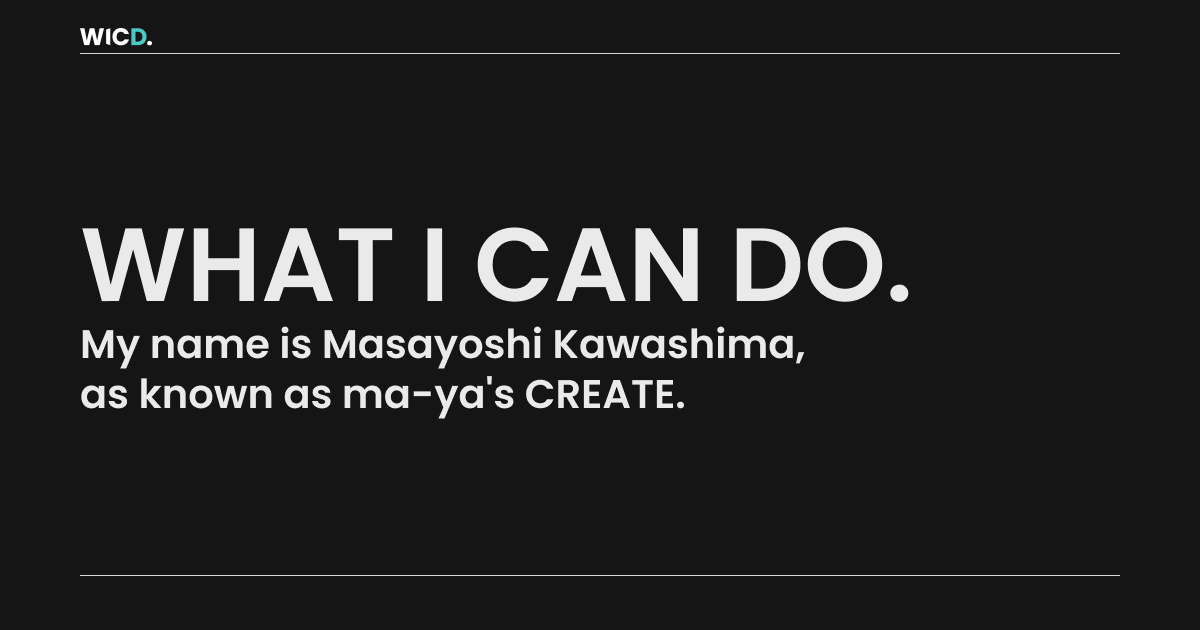
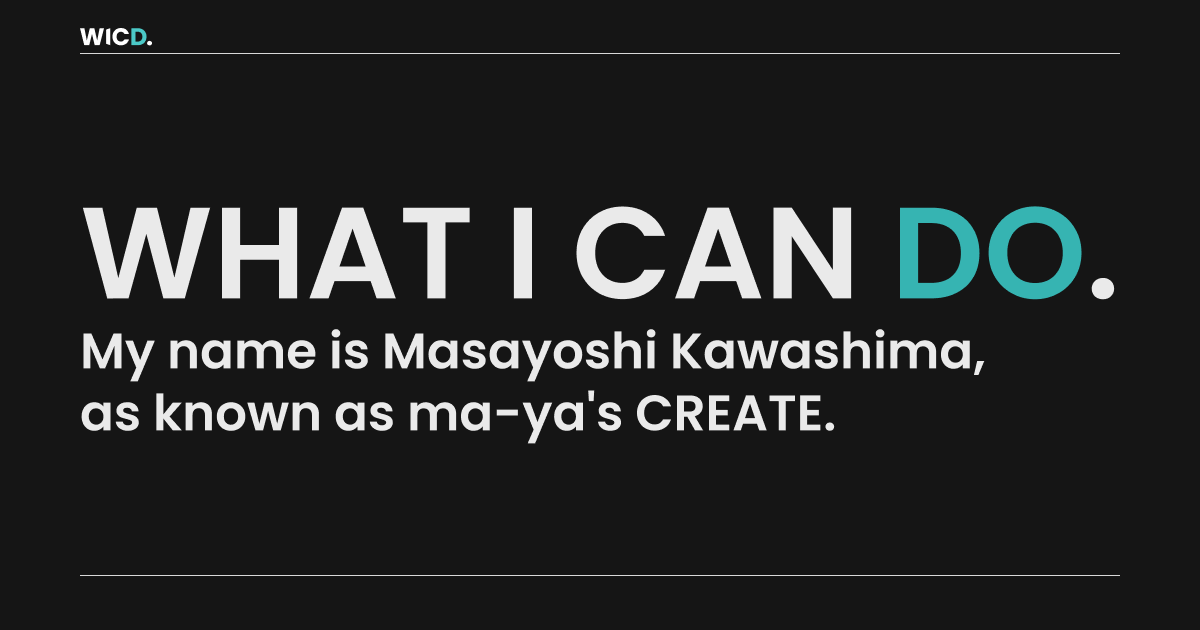
fix: styles

Changed region(s): [[0.0617, 0.5127, 0.8325, 0.6937], [0.0617, 0.3016, 0.925, 0.4825]]

diff --git a/styles/globals.scss b/styles/globals.scss
@@ -10,8 +10,8 @@
   @import url('https://fonts.googleapis.com/css2?family=Noto+Sans+JP:wght@500;700&family=Poppins:wght@500;600&display=swap');
   --font-base: 'Noto Sans JP', sans-serif;
   --font-en: 'Poppins', sans-serif;
-  --display-title-font-size: clamp(4rem, 3rem + 5vw, 7.5rem);
-  --display-outline-font-size: clamp(1.5rem, 1.2143rem + 1.4286vw, 2.5rem);
+  --display-title-font-size: clamp(4rem, 2.7143rem + 6.4286vw, 8.5rem);
+  --display-outline-font-size: clamp(1.5rem, 0.9286rem + 2.8571vw, 3.5rem);
   --letter-spacing: .04em;
 
   /* space */
@@ -59,6 +59,10 @@ ul {
 }
 
 /* component */
+
+.color-blue-green {
+  color: var(--blue-green);
+}
 
 .btn-outline {
   display: inline-block;

diff --git a/pages/index.tsx b/pages/index.tsx
@@ -27,7 +27,7 @@ const Top: NextPage = () => {
           <h1 className={`${styles.title} title`}>
             <div className='anim-show-from-bottom'><span>WHAT </span></div>
             <div className='anim-show-from-bottom'><span>I CAN </span></div>
-            <div className='anim-show-from-bottom'><span>DO.</span></div>
+            <div className='anim-show-from-bottom'><span className='color-blue-green'>DO.</span></div>
           </h1>
           <div className={`${styles.outline} outline`}>
             <p className='anim-show-from-bottom'><span>My name is Masayoshi Kawashima,</span></p>

diff --git a/styles/Top.module.scss b/styles/Top.module.scss
@@ -63,7 +63,7 @@
     }
   }
   .btnGroup {
-    margin-top: 1rem;
+    margin-top: 1.5rem;
     display: flex;
     column-gap: 16px;
     @media (min-width: 768px) {
